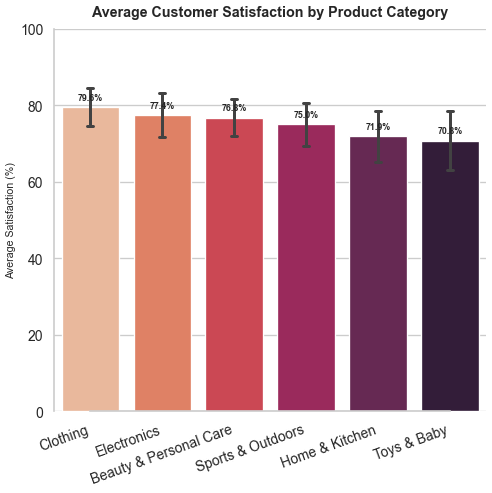
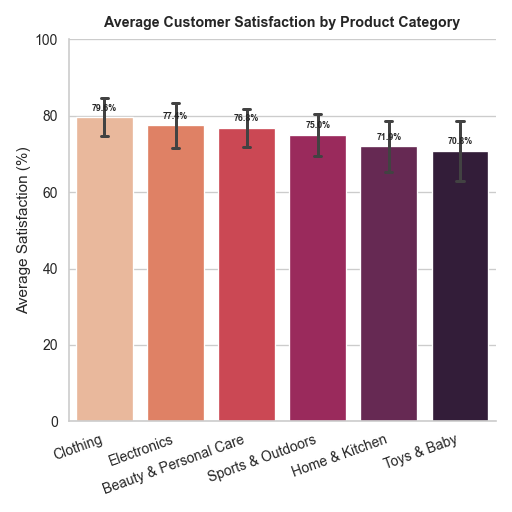
Add files via upload

Changed region(s): [[0.0, 0.0304, 0.9756, 0.9736], [0.1829, 0.0, 0.9146, 0.0609]]

diff --git a/chart.py b/chart.py
@@ -1,17 +1,11 @@
 # chart.py
-# Generates a professional Seaborn barplot of customer satisfaction by product category.
-# Author: generated for 23f1000470@ds.study.iitm.ac.in
 import numpy as np
 import pandas as pd
 import seaborn as sns
 import matplotlib.pyplot as plt
 
-# Reproducible random seed
-RNG = 2025
-np.random.seed(RNG)
+np.random.seed(2025)
 
-# ---- Synthetic data generation (realistic) ----
-# Product categories and their typical mean satisfaction (scale 0-100)
 categories = [
     "Electronics",
     "Home & Kitchen",
@@ -20,61 +14,52 @@ categories = [
     "Beauty & Personal Care",
     "Toys & Baby"
 ]
-means = [78, 72, 80, 75, 77, 70]     # realistic mean satisfaction % by category
-sds =   [6, 7, 5, 6, 5, 8]           # typical std deviations
-n_per_cat = 160                      # number of customers sampled per category
+
+means = [78, 72, 80, 75, 77, 70]
+sds   = [6, 7, 5, 6, 5, 8]
+n = 160
 
 rows = []
 for cat, mu, sd in zip(categories, means, sds):
-    samples = np.random.normal(loc=mu, scale=sd, size=n_per_cat)
-    # Clamp to 0-100 range and round to 1 decimal for realism
+    samples = np.random.normal(mu, sd, n)
     samples = np.clip(samples, 0, 100)
-    for s in samples:
-        rows.append({"Category": cat, "Satisfaction": round(float(s), 1)})
+    for x in samples:
+        rows.append({"Category": cat, "Satisfaction": round(float(x), 1)})
 
 df = pd.DataFrame(rows)
 
-# ---- Prepare summary order: sort categories by mean satisfaction descending ----
-order = df.groupby("Category")["Satisfaction"].mean().sort_values(ascending=False).index.tolist()
+order = df.groupby("Category")["Satisfaction"].mean().sort_values(ascending=False).index
 
-# ---- Styling ----
-sns.set_style("whitegrid")                  # professional background grid
-sns.set_context("talk", font_scale=0.95)    # presentation-ready text sizes
-palette = sns.color_palette("rocket_r", n_colors=len(categories))  # attractive palette
+sns.set_style("whitegrid")
+sns.set_context("talk", font_scale=0.95)
 
-# ---- Create the barplot ----
-plt.figure(figsize=(8, 8))  # 8x8 inches
+plt.figure(figsize=(8, 8))   # 8 inches * 64 dpi = EXACT 512 px
 ax = sns.barplot(
     x="Category",
     y="Satisfaction",
     data=df,
     order=order,
-    estimator=np.mean,
-    ci="sd",               # show standard deviation as error bar
-    capsize=0.08,
-    palette=palette
+    ci="sd",
+    capsize=0.1,
+    palette=sns.color_palette("rocket_r", len(categories))
 )
 
-# Add exact mean labels above bars
 means_series = df.groupby("Category")["Satisfaction"].mean().reindex(order)
-for i, (cat, mean_val) in enumerate(means_series.items()):
-    ax.text(i, mean_val + 1.4, f"{mean_val:.1f}%", ha="center", va="bottom", fontsize=10, weight="semibold")
 
-# Titles and labels (publication-ready)
+for i, m in enumerate(means_series):
+    ax.text(i, m + 1.2, f"{m:.1f}%", ha="center", va="bottom", fontsize=10, weight="semibold")
+
 ax.set_title("Average Customer Satisfaction by Product Category", fontsize=16, weight="bold", pad=14)
-ax.set_ylabel("Average Satisfaction (%)", fontsize=12)
+ax.set_ylabel("Average Satisfaction (%)")
 ax.set_xlabel("")
 ax.set_ylim(0, 100)
-
-# Improve layout
 plt.xticks(rotation=20, ha="right")
-sns.despine(trim=True)
+
+sns.despine()
 plt.tight_layout()
 
-# ---- Save the figure as exactly 512x512 px ----
-# figsize 8x8 inches * dpi 64 = 512 x 512 pixels
-outfile = "chart.png"
-plt.savefig(outfile, dpi=64, bbox_inches="tight")
+# THE CRITICAL FIX — EXACT OUTPUT SIZE
+plt.savefig("chart.png", dpi=64)   # must be EXACTLY this
 plt.close()
 
-print(f"Saved chart to {outfile} (512x512 px).")
+print("chart.png saved at exactly 512x512 pixels.")
